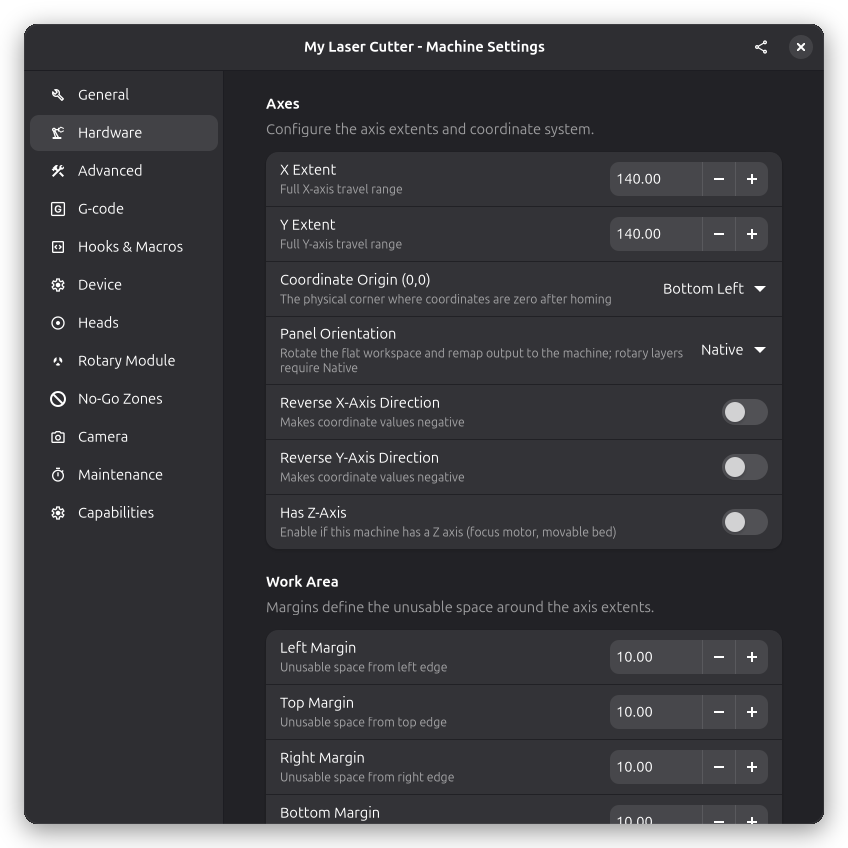
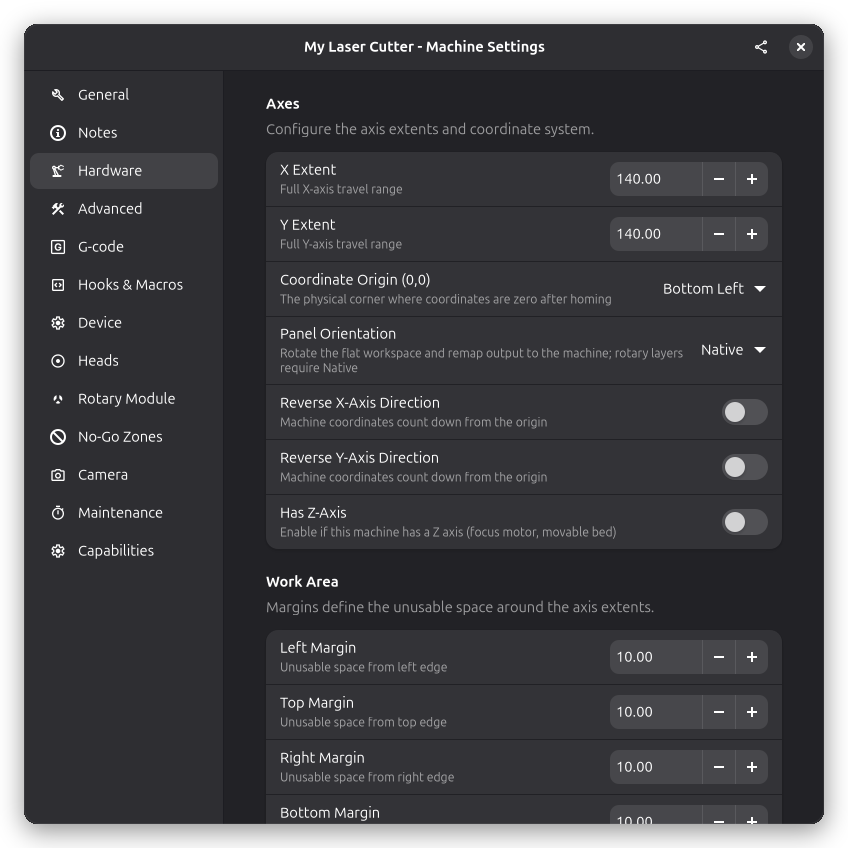
fix(ui): clarify the reverse-axis setting subtitle
"Makes coordinate values negative" did not say where the values
count from (issue #613). State the actual semantics: machine
coordinates count down from the origin.

diff --git a/rayforge/ui_gtk/machine/hardware_page.py b/rayforge/ui_gtk/machine/hardware_page.py
@@ -92,7 +92,7 @@ class HardwarePage(TrackedPreferencesPage):
         self.reverse_x_axis_row = Adw.SwitchRow()
         self.reverse_x_axis_row.set_title(_("Reverse X-Axis Direction"))
         self.reverse_x_axis_row.set_subtitle(
-            _("Makes coordinate values negative")
+            _("Machine coordinates count down from the origin")
         )
         self.reverse_x_axis_row.set_active(machine.reverse_x_axis)
         self.reverse_x_axis_row.connect(
@@ -103,7 +103,7 @@ class HardwarePage(TrackedPreferencesPage):
         self.reverse_y_axis_row = Adw.SwitchRow()
         self.reverse_y_axis_row.set_title(_("Reverse Y-Axis Direction"))
         self.reverse_y_axis_row.set_subtitle(
-            _("Makes coordinate values negative")
+            _("Machine coordinates count down from the origin")
         )
         self.reverse_y_axis_row.set_active(machine.reverse_y_axis)
         self.reverse_y_axis_row.connect(

diff --git a/rayforge/ui_gtk/machine/wizard_pages/hardware_page.py b/rayforge/ui_gtk/machine/wizard_pages/hardware_page.py
@@ -102,12 +102,12 @@ class HardwarePage(WizardPage):
         # Direction reversals.
         self.reverse_x_row = Adw.SwitchRow(
             title=_("Reverse X-Axis Direction"),
-            subtitle=_("Makes coordinate values negative"),
+            subtitle=_("Machine coordinates count down from the origin"),
         )
         axes_group.add(self.reverse_x_row)
         self.reverse_y_row = Adw.SwitchRow(
             title=_("Reverse Y-Axis Direction"),
-            subtitle=_("Makes coordinate values negative"),
+            subtitle=_("Machine coordinates count down from the origin"),
         )
         axes_group.add(self.reverse_y_row)
         self.has_z_row = Adw.SwitchRow(
